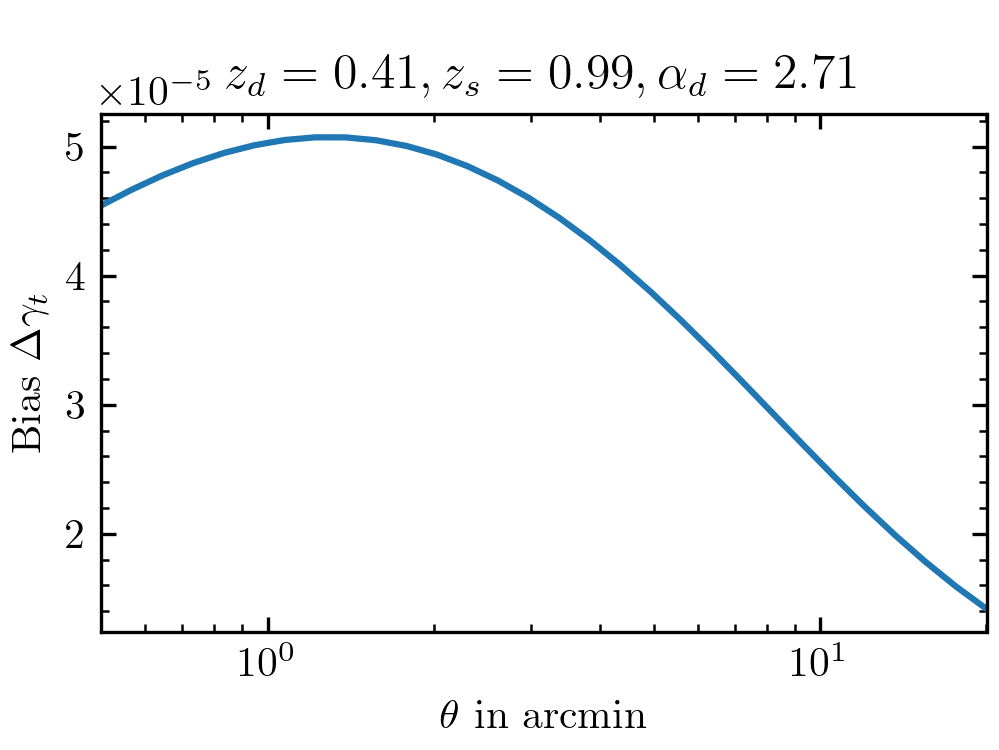
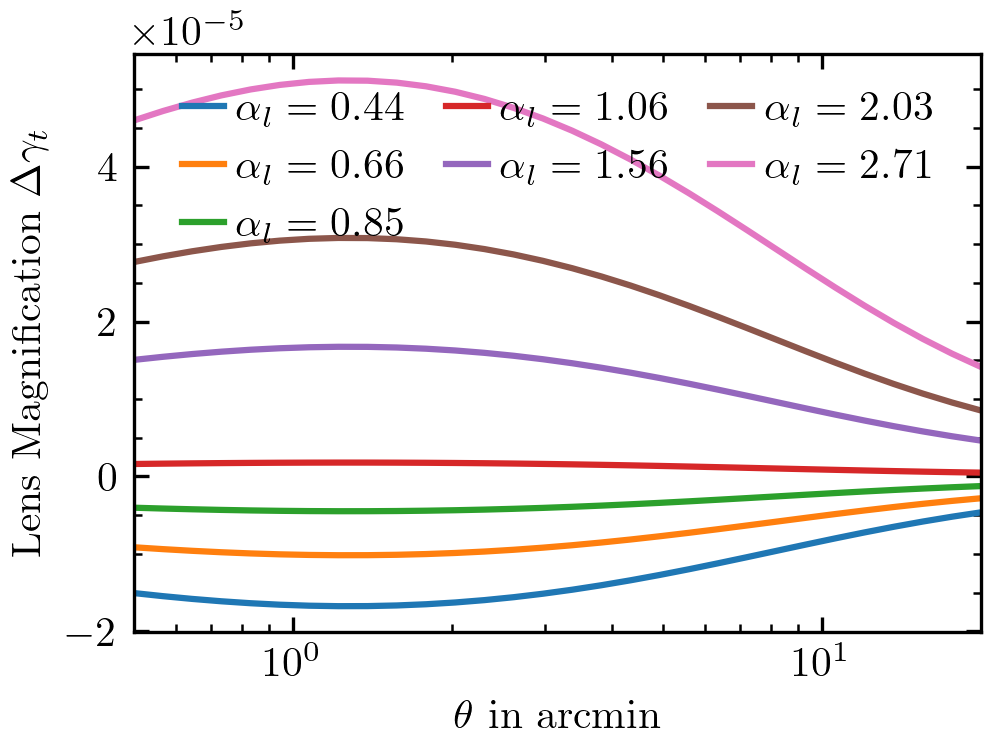
update tests and docs

diff --git a/tests/test_physics.py b/tests/test_physics.py
@@ -1,6 +1,8 @@
 import numpy as np
 from astropy import units as u
+from astropy.cosmology import FlatLambdaCDM
 from astropy.cosmology import units as cu
+from scipy.interpolate import make_interp_spline
 
 from dsigma import default_cosmology, physics
 
@@ -62,7 +64,7 @@ def test_to_camb():
         cosmology_astropy.Onu(z), rtol=5e-2, atol=0)
 
 
-def test_aussian_quadrature_2d():
+def test_gaussian_quadrature_2d():
     # Test 2d Gaussian quadrature on an analytic example.
 
     def f(x, y):
@@ -77,3 +79,29 @@ def test_aussian_quadrature_2d():
         physics._gaussian_quadrature_2d(f, 10, x_min, x_max, 10, y_min, y_max),
         (x_max**3 - x_min**3) / 3.0 * (y_max - y_min) +
         (x_max - x_min) * (np.cos(y_min) - np.cos(y_max)))
+
+
+def test_lens_magnification():
+    # Compare the results from dsigma to those shown in Unruh et al. (2020).
+
+    z_l = 0.41
+    z_s = 0.99
+
+    # Millennium simulation cosmology
+    cosmology = FlatLambdaCDM(Ob0=0.045, Om0=0.25, H0=73, Tcmb0=2.7255)
+    sigma_8 = 0.9
+    n_s = 1.0
+
+    theta = np.geomspace(0.5, 20, 30) * u.arcmin
+
+    alpha_l = 2.71
+    gt = physics.lens_magnification_shear_bias(
+        theta, alpha_l, z_l, z_s, cosmology=cosmology, sigma_8=sigma_8,
+        n_s=n_s)
+
+    # digitized from Unruh et al. (2020)
+    gt_unruh = 1e-5 * make_interp_spline(
+        [0.556, 0.834, 1.26, 1.95, 2.95, 4.51, 6.86, 10.5, 15.9, 19.0],
+        [4.49, 4.80, 4.99, 5.00, 4.74, 4.19, 3.41, 2.56, 1.78, 1.52])(theta)
+
+    assert np.allclose(gt, gt_unruh, rtol=0.1, atol=0)

diff --git a/dsigma/physics.py b/dsigma/physics.py
@@ -157,7 +157,9 @@ def _to_camb(cosmology, sigma_8, n_s, z):
     Raises
     ------
     ValueError
-        If cosmology is not instance of ``astropy.cosmology.FlatLambdaCDM``.
+        If cosmology is not an instance of ``astropy.cosmology.FlatLambdaCDM``.
+    ImportError
+        If ``camb`` is not installed.
 
     Returns
     -------
@@ -170,11 +172,16 @@ def _to_camb(cosmology, sigma_8, n_s, z):
         msg = "Cosmology must be instance of astropy.cosmology.FlatLambdaCDM."
         raise ValueError(msg)
 
-    import camb
+    try:
+        import camb
+    except ImportError:
+        msg = "CAMB needs to be installed for this operation."
+        raise ImportError(msg)
 
     h = cosmology.H0.to(u.km / u.s / u.Mpc).value / 100
     a_s = 2e-9  # initial guess
-    m_nu = cosmology.m_nu.to(u.eV).value
+    m_nu = (np.zeros(0) if cosmology.m_nu is None else
+            cosmology.m_nu.to(u.eV).value)
 
     # TODO: Somebody should check this, especially in regards to neutrinos.
     pars = camb.set_params(

diff --git a/docs/workflow/magnification.rst b/docs/workflow/magnification.rst
@@ -5,38 +5,38 @@ Galaxy-galaxy lensing measures the mean tangential shear of source galaxies at r
 
 However, the magnification of lens galaxies by foreground structures at :math:`z_{\rm f} < z_{\rm l}` will induce spatial correlations such that the tangential shear induced by foreground structures is expected to be non-zero. This effect is called lens magnification and can be an important contributor to the mean tangential shear around lens galaxies. The strength of this effect depends on the response of lenses to magnification, i.e., how much more likely a galaxy is to make it into the lens sample if it is gravitationally lensed. This is quantified by the parameter :math:`\alpha`. We refer the reader to `Unruh et al. (2020) <https://doi.org/10.1051/0004-6361/201936915>`_ for a detailed investigation of this effect.
 
-`dsigma` implements the estimate for lens magnification described in this publication. For example, the code below reproduces the pink line in Fig. 5 of Unruh et al. (2020). To estimate the power spectrum, it relies on `CAMB <https://camb.readthedocs.io>`_.
+``dsigma`` implements the estimate for lens magnification described in this publication. For example, the code below reproduces the pink line in Fig. 5 of Unruh et al. (2020). To estimate the power spectrum, it relies on `CAMB <https://camb.readthedocs.io>`_.
 
 .. code-block:: python
 
-    import camb
     import matplotlib.pyplot as plt
     import numpy as np
-
+    
     from astropy import units as u
     from dsigma.physics import lens_magnification_shear_bias
-
-    z_d = 0.41
+    from astropy.cosmology import FlatLambdaCDM
+    
+    z_l = 0.41
     z_s = 0.99
-    alpha_d = 2.71
-
-    h = 0.73
-    pars = camb.CAMBparams()
-    pars.set_cosmology(H0=100 * h, ombh2=0.045 * h**2, omch2=0.205 * h**2)
-    pars.InitPower.set_params(ns=1.0, As=2.83e-9)
-    pars.set_matter_power(redshifts=np.linspace(z_d, 0, 10), kmax=2000.0,
-                          nonlinear=True)
-    camb_results = camb.get_results(pars)
-
+    
+    # Millennium simulation cosmology
+    cosmology = FlatLambdaCDM(Ob0=0.045, Om0=0.25, H0=73, Tcmb0=2.7)
+    sigma_8 = 0.9
+    n_s = 1.0
+    
     theta = np.geomspace(0.5, 20, 30) * u.arcmin
-    d_gamma = [lens_magnification_shear_bias(t, alpha_d, z_d, z_s, camb_results)
-               for t in theta]
-    plt.plot(theta, d_gamma)
-
-    plt.title(rf'$z_d = {z_d:.2f}, z_s = {z_s:.2f}, \alpha_d = {alpha_d:.2f}$')
+    
+    for alpha_l in [0.44, 0.66, 0.85, 1.06, 1.56, 2.03, 2.71]:
+        gt = lens_magnification_shear_bias(
+            theta, alpha_l, z_l, z_s, cosmology=cosmology, sigma_8=sigma_8,
+            n_s=n_s)
+        plt.plot(theta, gt, label=rf"$\alpha_l = {alpha_l:.2f}$")
+    
+    plt.legend(loc='upper center', frameon=False, ncols=3, handletextpad=0.3,
+               columnspacing=1, handlelength=1)
     plt.xscale('log')
     plt.xlabel(r'$\theta$ in arcmin')
-    plt.ylabel(r'Bias $\Delta \gamma_t$')
+    plt.ylabel(r'Lens Magnification $\Delta \gamma_t$')
     plt.xlim(0.5, 20)
 
 .. image:: magnification.png